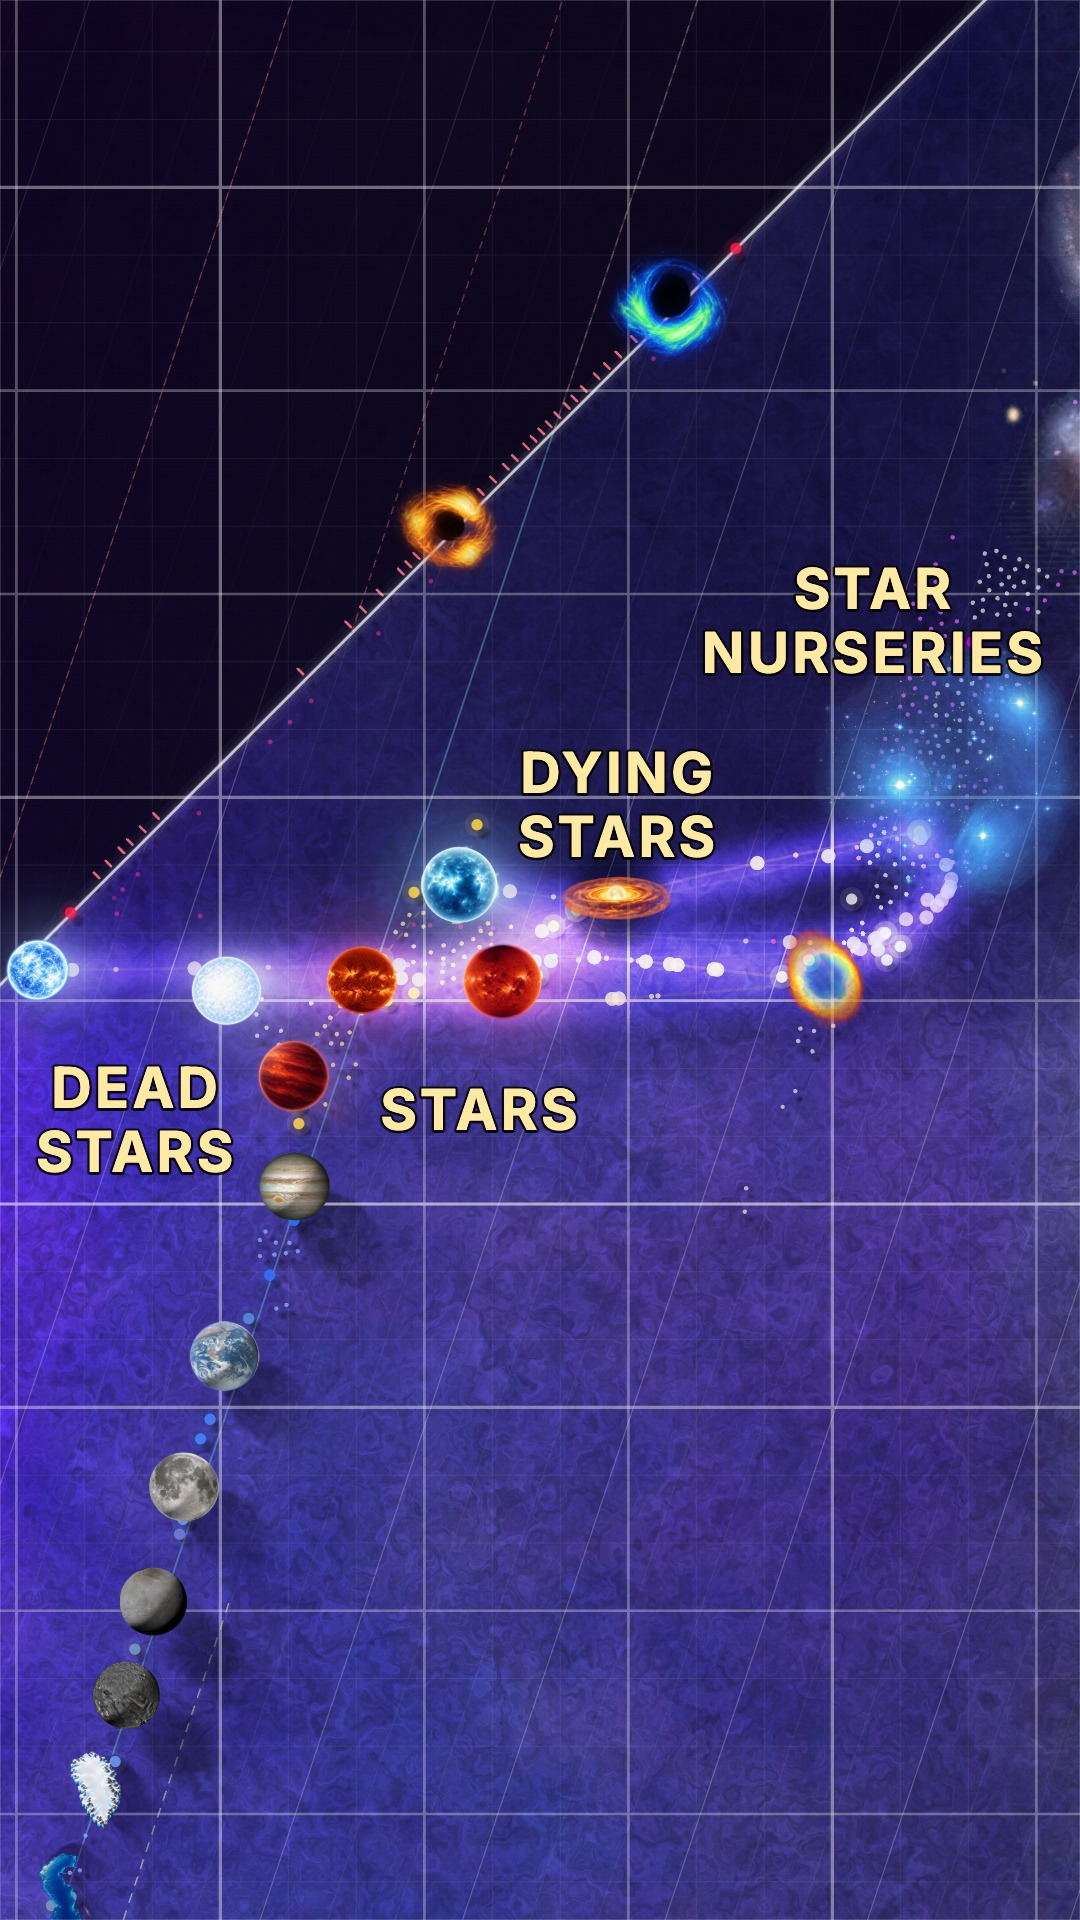
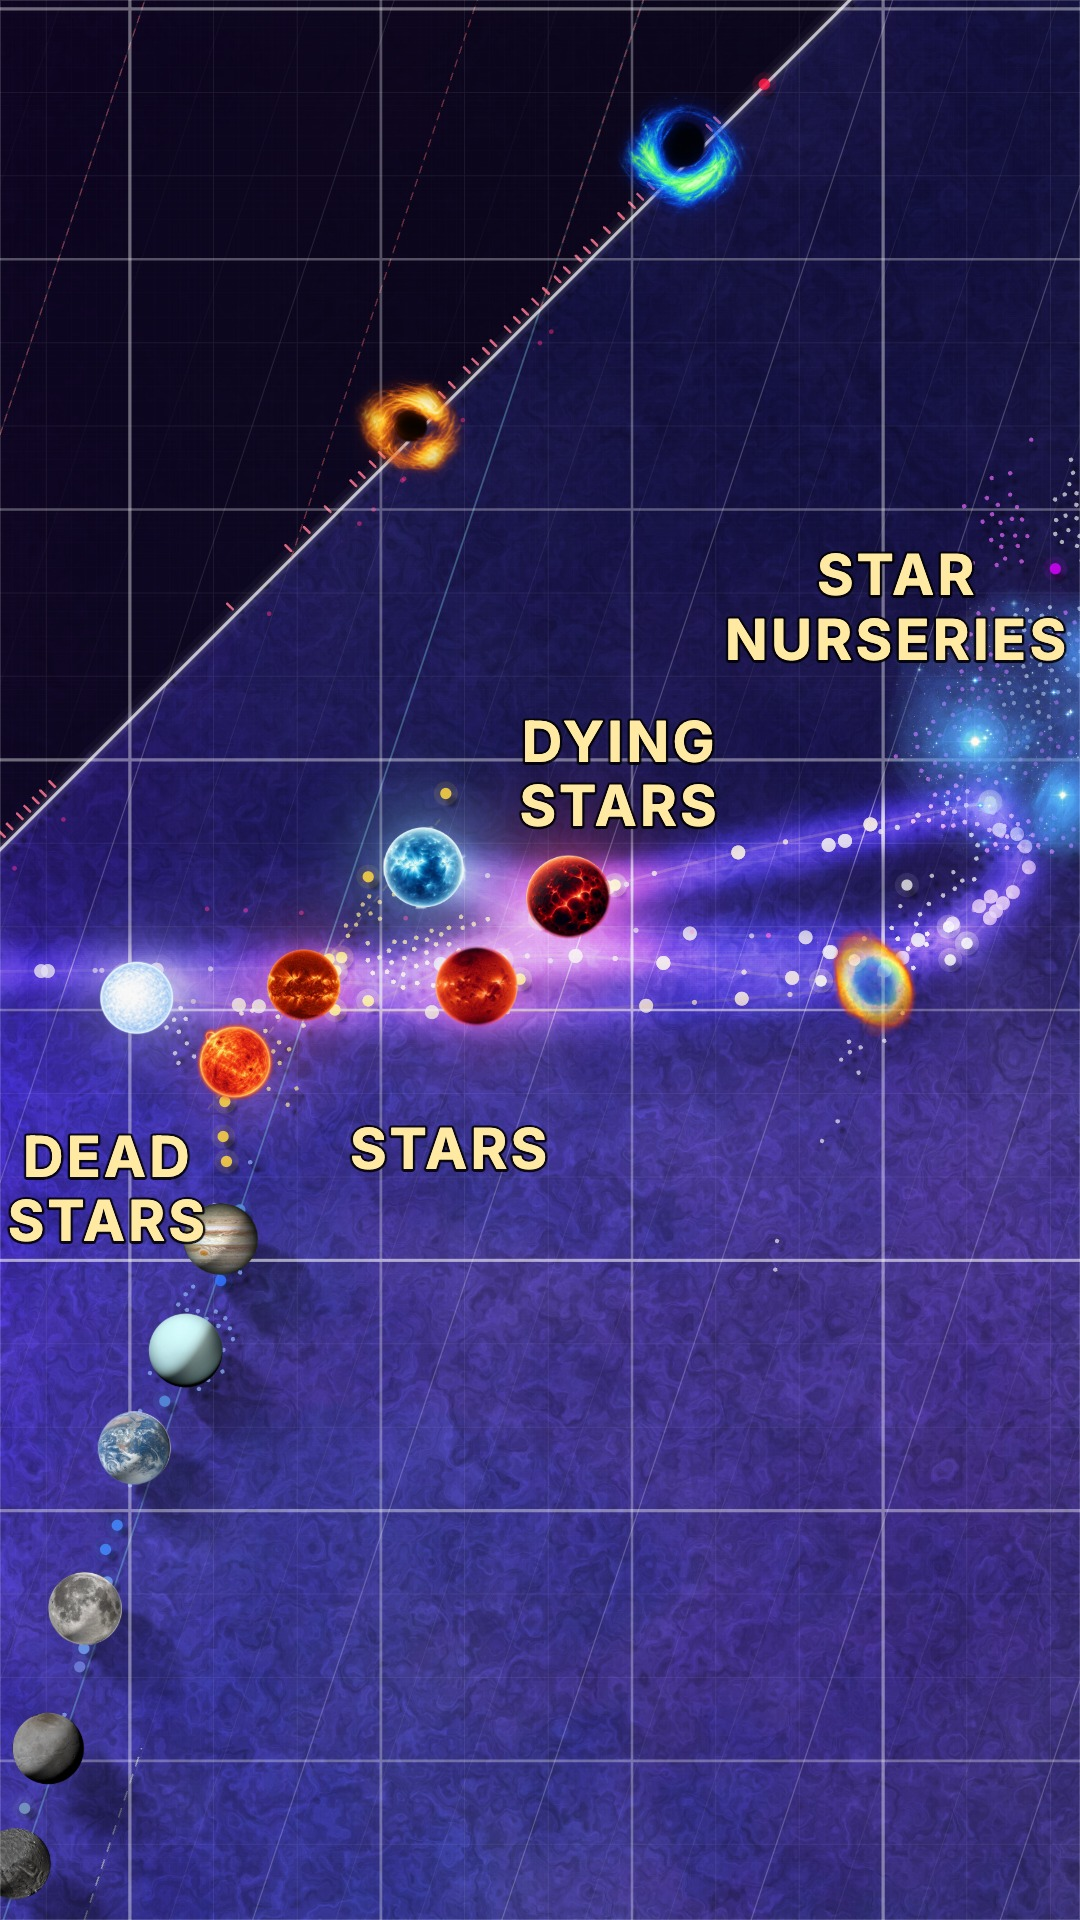
Thumbnails: the author's notes — "Where do these meet?" with an arrow, "Everything is here" along the line, closer on the stellar cycle, "Nothing can ever cross this line" with the brown dwarfs and a curved arrow
Arrows take via: [points | { obj, dr?, dm? }] for a smooth curve through them.

diff --git a/src/narration-scenes/short-04-black-holes.js b/src/narration-scenes/short-04-black-holes.js
@@ -91,12 +91,15 @@ export default {
   start: FULL,
   // the YouTube thumbnail (scripts/narration-poster.mjs): in close on a white dwarf, a neutron star
   // and the black-hole line they lead to, and the question (the author, 2026-10-30)
-  poster: { at: 3, set: { forceIcons: ["PSR J0030+0451", "White Dwarf", "Stellar BH"] }, cues: [{ t: 0, cam: { r: 7.5, m: 34.0, span: 5.2 }, dur: 0.1, drift: 0, hl: [
-    { line: "schwarzschild", draw: 0.01 }, { path: "stellar-to-bh", draw: 0.01 },
+  poster: { at: 3, set: { forceIcons: ["PSR J0030+0451", "White Dwarf", "Stellar BH", "T Brown Dwarf", "L Brown Dwarf"], hideLabels: ["T Brown Dwarf"] }, cues: [{ t: 0, cam: { r: 8.0, m: 33.6, span: 7.2 }, dur: 0.1, drift: 0, hl: [
+    { line: "schwarzschild", draw: 0.01, label: "nothing can ever\ncross this line", size: 30, labelAt: [9.3, 37.13] },
+    { obj: "T Brown Dwarf", label: "brown dwarfs", place: "below", labelSize: 26 },
     { obj: "White Dwarf", label: "white dwarf", place: "below", labelSize: 26 },
     { obj: "PSR J0030+0451", label: "neutron star", place: "below", labelSize: 26 },
     { obj: "Stellar BH", label: "black hole", place: "right", labelSize: 26 },
-    { text: "All the universe\nis black holes?", at: [7.5, 37.7], size: 40, instant: true }] }] },
+    // the squeeze: from the brown dwarfs, over the white dwarf, on to the neutron star at the line
+    { arrow: true, from: { obj: "T Brown Dwarf" }, via: [{ obj: "White Dwarf", dm: 0.55 }],
+      to: { obj: "PSR J0030+0451" }, color: "#ffe9a3", width: 3, draw: 0.01 }] }] },
   forceIcons: ["Sun", "Ton 618"],   // the Sun's picture in "squeeze the Sun into a black hole", where nearby stars would otherwise win the room; TON 618 beside the (larger) M87*
   pbhWindow: false,   // the window is drawn as it's told (window highlight), not the map's
 

diff --git a/src/narration.js b/src/narration.js
@@ -2052,6 +2052,23 @@ export async function startNarration(app) {
     const B = to ? [to.logR, to.logM] : [h.to.r, h.to.m];
     const [x1, y1, x2r, y2r] = [sx(A[0]), sy(A[1]), sx(B[0]), sy(B[1])];
     const prog = d3.easeCubicInOut(clamp01(age / (h.draw ?? 1.4)));
+    // via: [[r, m] | { obj, dr?, dm? }, …]: a curved arrow through those points (a smooth spline), drawn on
+    // from its start; the head follows the curve's last stretch
+    if (h.via) {
+      const pt = (v) => { const o = v.obj ? objByName.get(v.obj) : null; return o ? [sx(o.logR + (v.dr || 0)), sy(o.logM + (v.dm || 0))] : [sx(v[0] ?? v.r), sy(v[1] ?? v.m)]; };
+      const pts = [[x1, y1], ...h.via.map(pt), [x2r, y2r]];
+      const col = h.color || "#ffffff", w = h.width ?? 3;
+      const path = el.append("path").attr("d", d3.line().curve(d3.curveCatmullRom.alpha(0.5))(pts)).attr("fill", "none")
+        .attr("stroke", col).attr("stroke-width", w).attr("stroke-linecap", "round").attr("opacity", 0.95);
+      const len = path.node().getTotalLength(), end = len * prog - (h.pad ?? 18);
+      if (end <= 0) return path.remove();
+      path.attr("stroke-dasharray", `${end} ${len}`);
+      const p1 = path.node().getPointAtLength(end), p0 = path.node().getPointAtLength(Math.max(0, end - 8));
+      const ang = Math.atan2(p1.y - p0.y, p1.x - p0.x), ah = 10 + 2.5 * (w - 2);
+      el.append("path").attr("d", `M${p1.x + 4 * Math.cos(ang)},${p1.y + 4 * Math.sin(ang)} L${p1.x - ah * Math.cos(ang - 0.45)},${p1.y - ah * Math.sin(ang - 0.45)} L${p1.x - ah * Math.cos(ang + 0.45)},${p1.y - ah * Math.sin(ang + 0.45)} Z`)
+        .attr("fill", col);
+      return;
+    }
     const pad = 20, L = Math.hypot(x2r - x1, y2r - y1);
     if (L < 2 * pad) return;
     const ux = (x2r - x1) / L, uy = (y2r - y1) / L;

diff --git a/src/narration-scenes/short-03-stars.js b/src/narration-scenes/short-03-stars.js
@@ -45,12 +45,12 @@ export default {
   start: { r: 10.4, m: 31.6, span: 6 },
   // the YouTube thumbnail (scripts/narration-poster.mjs): out on the whole stellar cycle, its
   // paths lit and its stages named (the author, 2026-10-30)
-  poster: { at: 3, cues: [{ t: 0, cam: { r: 13.4, m: 33.6, span: 16 }, dur: 0.1, drift: 0, hl: [
+  poster: { at: 3, cues: [{ t: 0, cam: { r: 13.6, m: 33.6, span: 13 }, dur: 0.1, drift: 0, hl: [
     ...[...CYCLE, HIGH].map(h => ({ ...h, draw: 0.01 })),
-    { text: "dead\nstars", at: [7.42, 30.93], size: 28, instant: true },
+    { text: "dead\nstars", at: [8.4, 30.6], size: 28, instant: true },
     { text: "stars", at: [12.52, 31.08], size: 28, instant: true },
     { text: "dying\nstars", at: [14.56, 35.6], size: 28, instant: true },
-    { text: "star\nnurseries", at: [18.35, 38.33], size: 28, instant: true }] }] },
+    { text: "star\nnurseries", at: [17.9, 37.6], size: 28, instant: true }] }] },
 
   // background music (Kevin MacLeod, CC BY 4.0: video/music/CREDITS.md)
   backing: "Immersed",

diff --git a/src/narration-scenes/short-02-up-the-line.js b/src/narration-scenes/short-02-up-the-line.js
@@ -72,7 +72,7 @@ export default {
   // the YouTube thumbnail (scripts/narration-poster.mjs): in close on the water and air lines,
   // full of animals, balloons and aircraft, each side named (the author, 2026-10-30)
   poster: { at: 3, set: { iconDensity: 100 }, cues: [{ t: 0, cam: { r: 2.25, m: 6.3, span: 3.2 }, dur: 0.1, drift: 0, forceIcons: ANIMALS, hl: [
-    { ...WATER, draw: 0.01 }, { ...AIR, draw: 0.01 },
+    { ...WATER, draw: 0.01, label: "everything is here", size: 34, labelAt: [2.35, 7.67] }, { ...AIR, draw: 0.01 },
     { side: "left", label: "sinks", labelX: 0.2, labelY: 0.45, labelSize: 34 },
     { side: "right", label: "floats\nin water", labelX: 0.7, labelY: 0.3, labelSize: 30 },
     { side: "right", of: "air", color: "#a5d6a7", label: "floats\nin air", labelX: 0.78, labelY: 0.8, labelSize: 30 }] }] },

diff --git a/src/narration-scenes/short-01-hook.js b/src/narration-scenes/short-01-hook.js
@@ -43,7 +43,8 @@ export default {
   poster: { at: 3, cues: [{ t: 0, cam: { r: -10, m: -6, span: 100 }, dur: 0.1, drift: 0, hl: [
     { ...RELATIVITY, draw: 0.01, size: 26 }, { ...QUANTUM, draw: 0.01, size: 26, labelAt: [-6, -31.45] },
     { line: "hubble", label: "the universe", draw: 0.01, size: 26 },
-    { text: "Big\nBang!?", at: [-38, -17], size: 40, instant: true }] }] },
+    { text: "Where do\nthese meet?", at: [-35.3, -36], size: 34, instant: true },
+    { arrow: true, from: { r: -35.5, m: -27 }, to: { r: -32.64, m: -4.81 }, solid: true, width: 3, color: "#ffe9a3", draw: 0.01 }] }] },
 
   // background music (Kevin MacLeod, CC BY 4.0: video/music/CREDITS.md)
   backing: "Space X-plorers",
